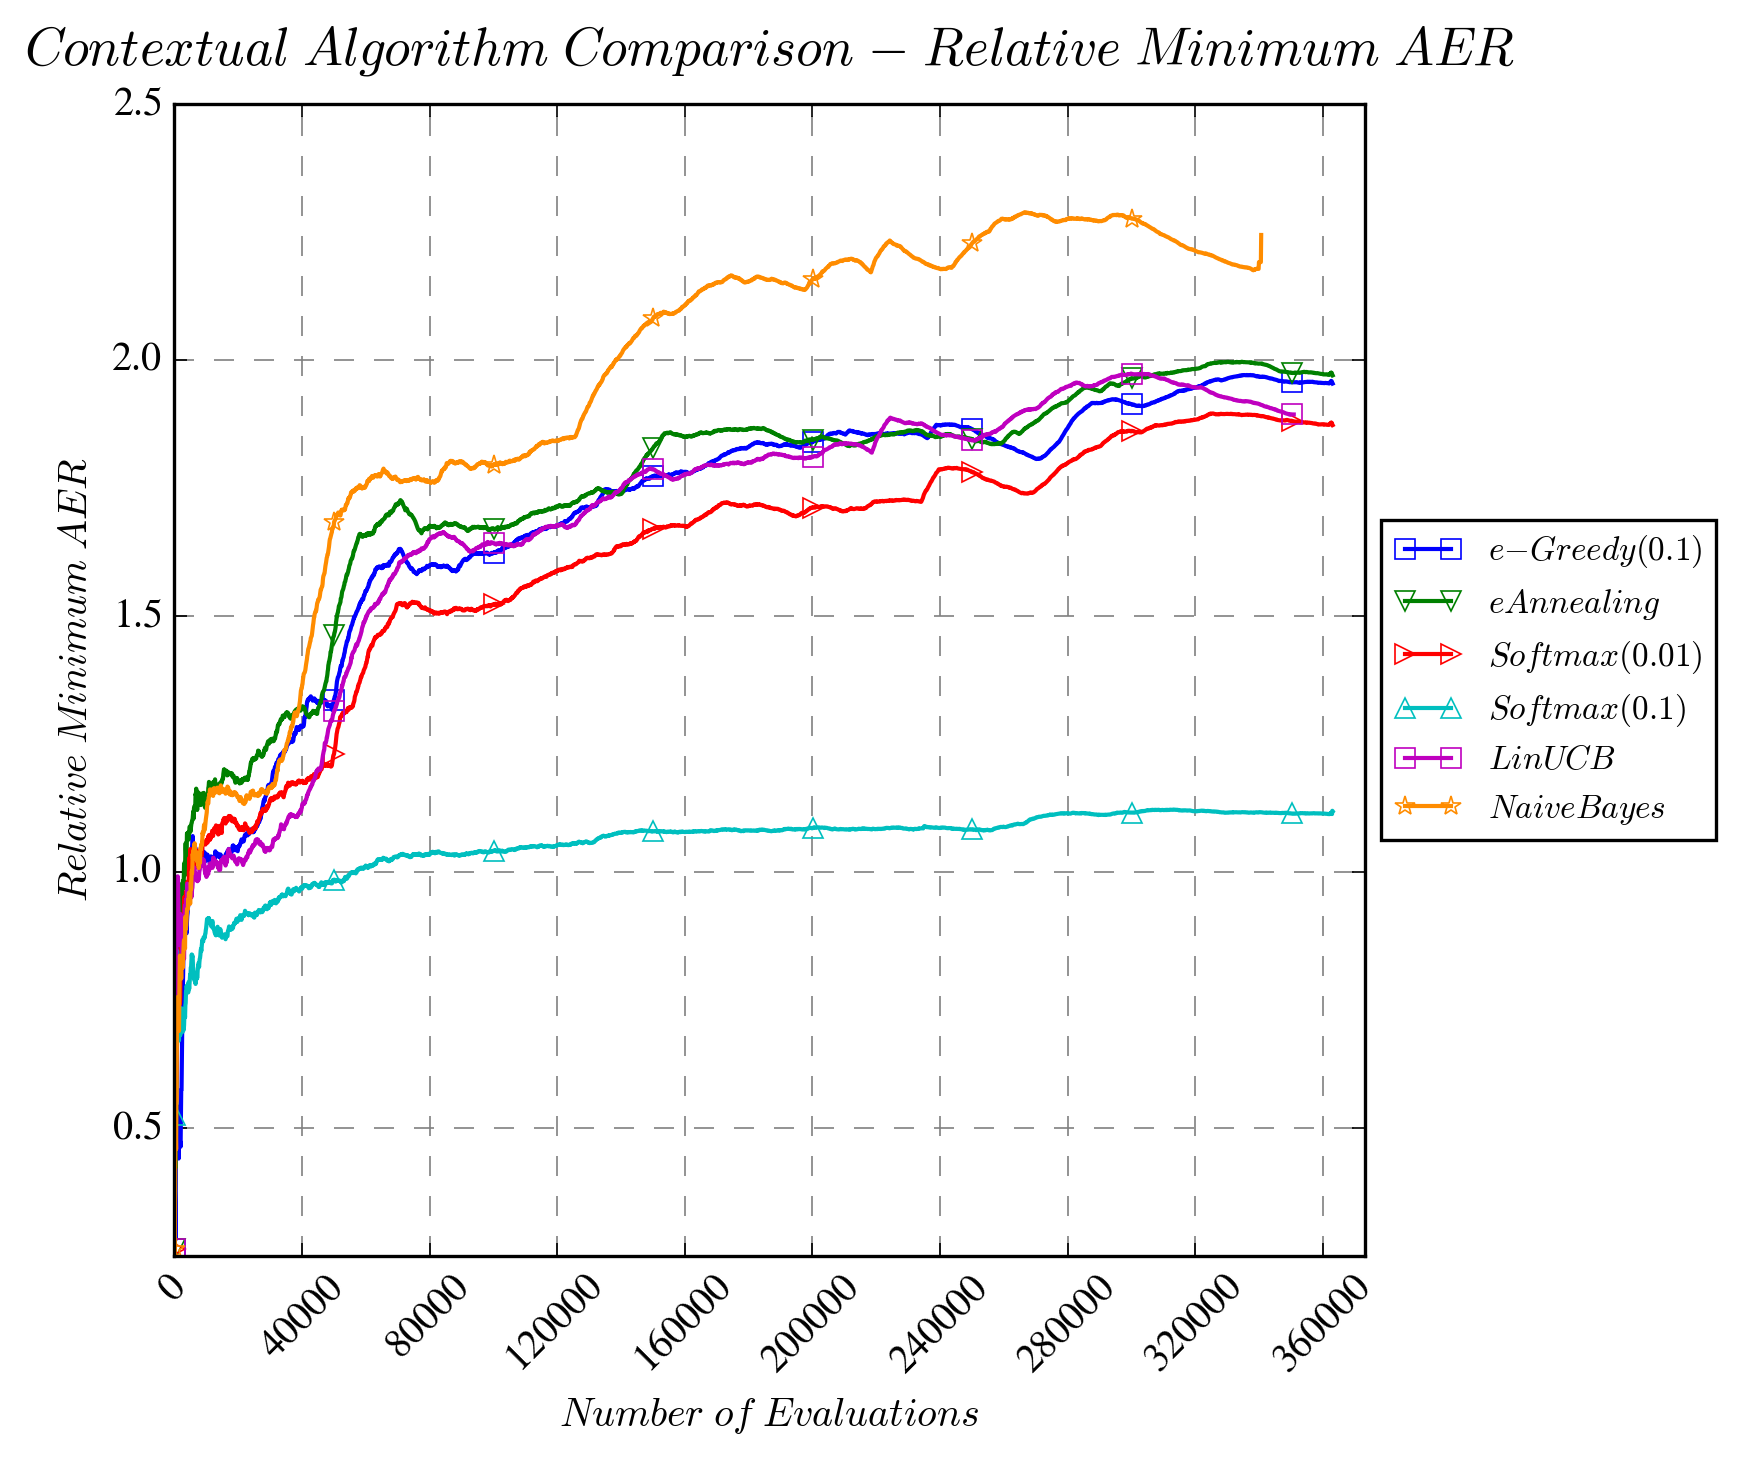
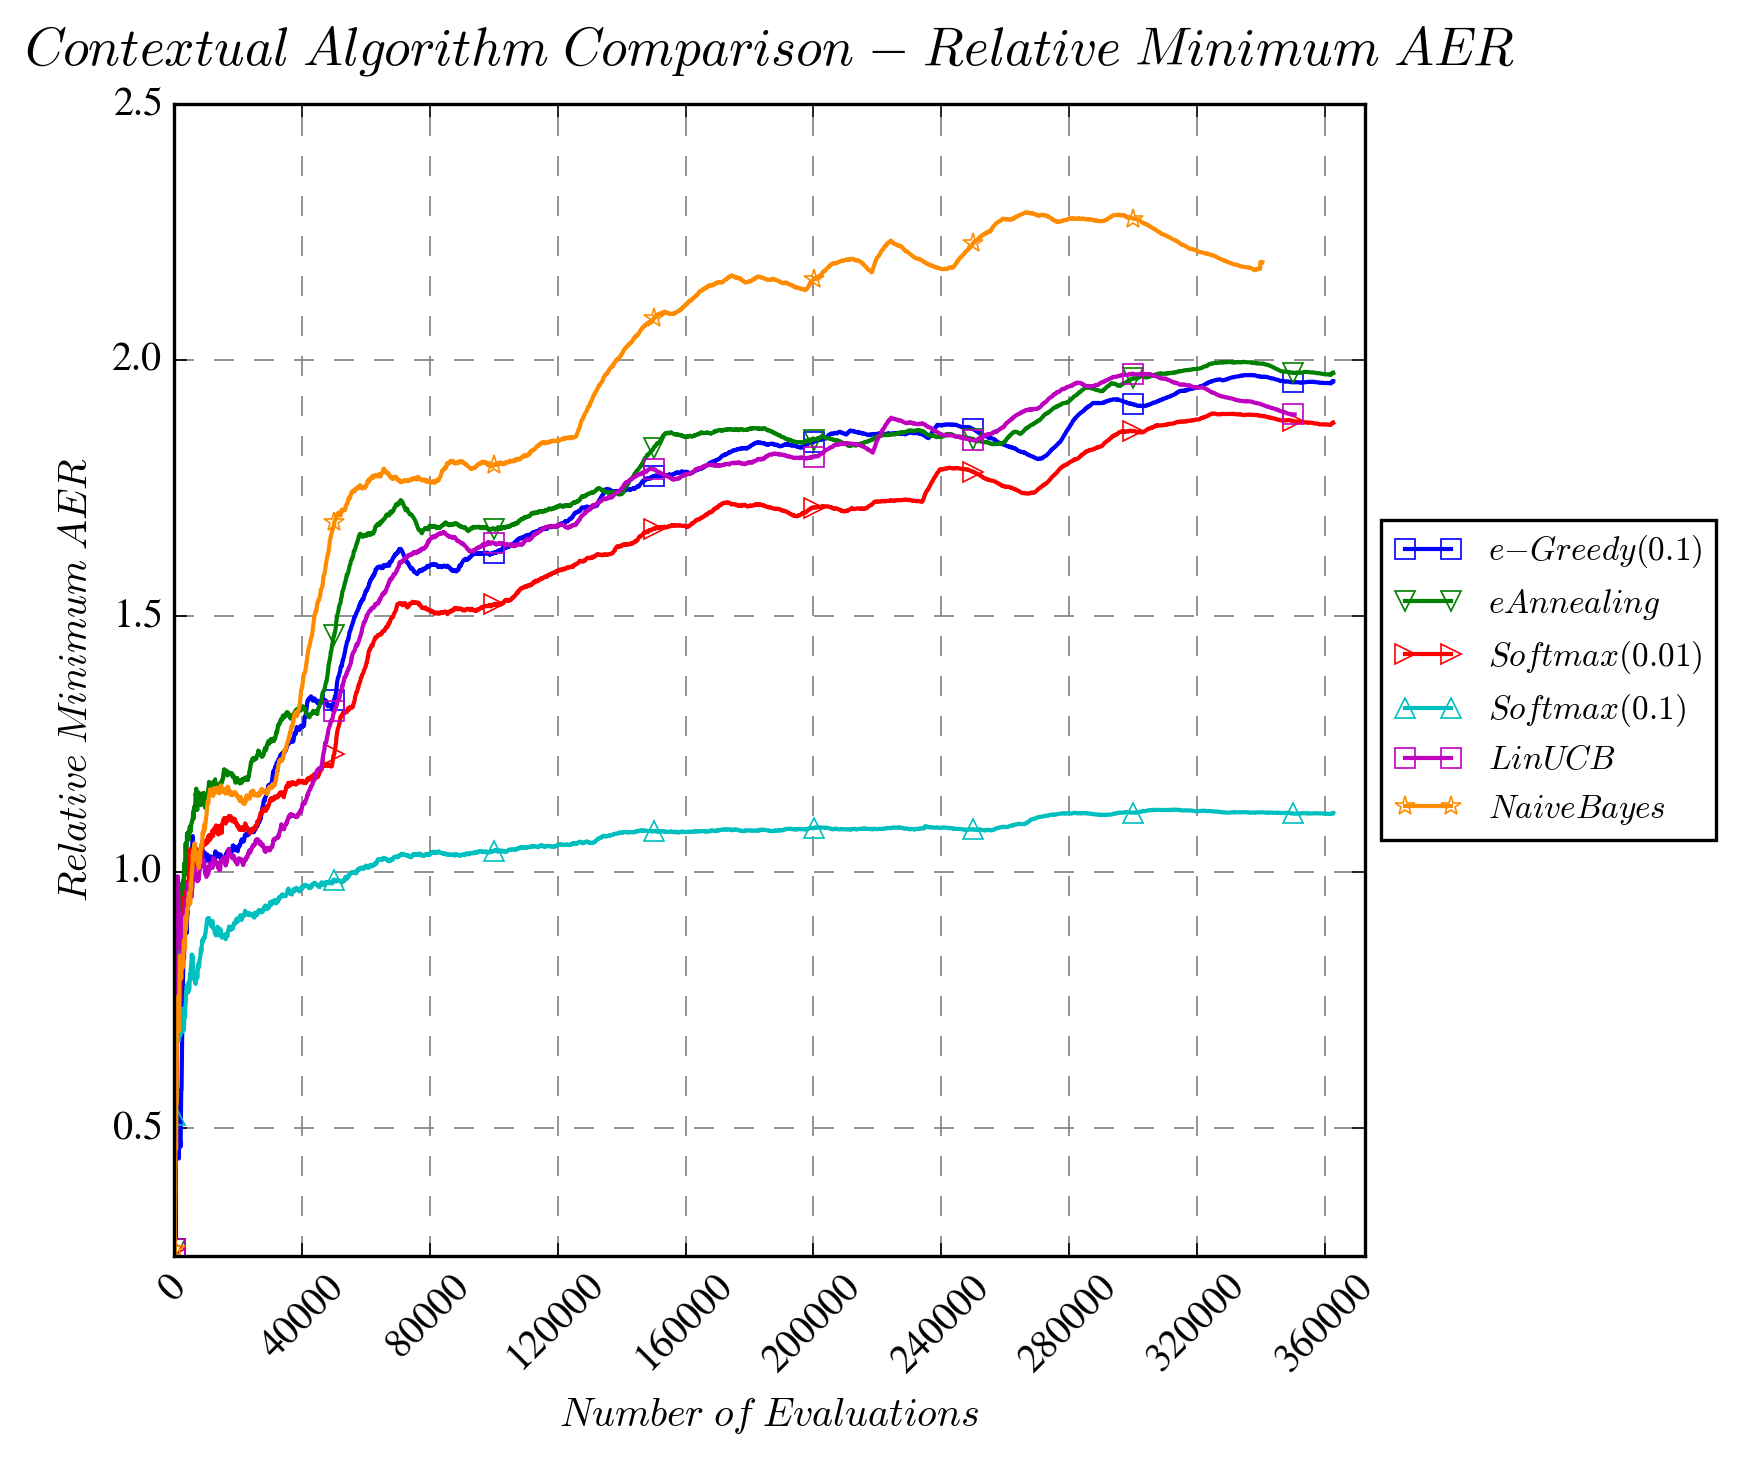
Last phase of ensemble name fixes

diff --git a/create_mean_aer_vs_time_plot_ensemble.py b/create_mean_aer_vs_time_plot_ensemble.py
@@ -22,14 +22,14 @@ ax.set_title(r"$Ensemble\ Algorithm\ Comparison\ -\ Relative\ Mean\ AER\ vs.\ Ti
 ax.set_xlabel(r"$Time\ (Seconds)$")
 ax.set_ylabel(r"$Relative\ Mean\ AER$")
 
-ax.plot(data['TimeBin'],data['EnsembleRandom']/data['Random'], lw='1.25', label=r'$EnsRandom$', marker='o', markevery=500, fillstyle='none')
-ax.plot(data['TimeBin'],data['EnsembleRandomUpdateAll']/data['Random'], lw='1.25', label=r'$EnsRandomUpdateAll$', marker='v', markevery=500, fillstyle='none')
-ax.plot(data['TimeBin'],data['EnsembleEAnnealing']/data['Random'], lw='1.25', label=r'$EnsEAnn$', marker='^', markevery=500, fillstyle='none')
-#ax.plot(data['TimeBin'],data['EnsembleBayesian']/data['Random'], lw='1.25', label=r'$EnsBayesian$', marker='s', markevery=500, fillstyle='none')
-ax.plot(data['TimeBin'],data['EnsembleBinomialUCI']/data['Random'], lw='1.25', label=r'$EnsBinomialUCI$', marker='*', markevery=500, fillstyle='none')
-ax.plot(data['TimeBin'],data['EnsembleSoftmax001']/data['Random'], lw='1.25', label=r'$EnsSoftmax0.01$', color='deepskyblue', marker='>', markevery=500, fillstyle='none')
-ax.plot(data['TimeBin'],data['EnsembleBinomialUCIMod1']/data['Random'], lw='1.25', label=r'$EnsBinomialUCIMod1$', marker='+', markevery=500, fillstyle='none')
-ax.plot(data['TimeBin'],data['EnsembleBinomialUCIMod2']/data['Random'], lw='1.25', label=r'$EnsBinomialUCIMod2$', color='fuchsia', marker='D', markevery=500, fillstyle='none')
+ax.plot(data['TimeBin'],data['EnsembleRandom']/data['Random'], lw='1.25', label=r'$EnsRandom$', marker='o', markevery=50, fillstyle='none')
+ax.plot(data['TimeBin'],data['EnsembleRandomUpdateAll']/data['Random'], lw='1.25', label=r'$EnsRandomUpdateAll$', marker='v', markevery=50, fillstyle='none')
+ax.plot(data['TimeBin'],data['EnsembleEAnnealing']/data['Random'], lw='1.25', label=r'$EnsEAnnealing$', marker='^', markevery=50, fillstyle='none')
+#ax.plot(data['TimeBin'],data['EnsembleBayesian']/data['Random'], lw='1.25', label=r'$EnsBayesian$', marker='s', markevery=50, fillstyle='none')
+ax.plot(data['TimeBin'],data['EnsembleBinomialUCI']/data['Random'], lw='1.25', label=r'$EnsBinomialUCI$', marker='*', markevery=50, fillstyle='none')
+ax.plot(data['TimeBin'],data['EnsembleSoftmax001']/data['Random'], lw='1.25', label=r'$EnsSoftmax0.01$', color='deepskyblue', marker='>', markevery=50, fillstyle='none')
+#ax.plot(data['TimeBin'],data['EnsembleBinomialUCIMod1']/data['Random'], lw='1.25', label=r'$EnsBinomialUCIMod1$', marker='+', markevery=50, fillstyle='none')
+#ax.plot(data['TimeBin'],data['EnsembleBinomialUCIMod2']/data['Random'], lw='1.25', label=r'$EnsBinomialUCIMod2$', color='fuchsia', marker='D', markevery=50, fillstyle='none')
 
 box = ax.get_position()
 ax.set_position([box.x0, box.y0, box.width * 0.8, box.height])
@@ -39,7 +39,8 @@ ax.legend(loc='center left', bbox_to_anchor=(1, 0.5), prop = fontP)
 ax.get_xaxis().set_major_locator(MaxNLocator(integer=True))
 ax.set_xticklabels(ax.xaxis.get_majorticklocs(), rotation=45)
 
-ax.set_xlim([0, max(data['TimeBin'])])
+ax.set_xlim([0, 11000])
+#ax.set_xlim([0, max(data['TimeBin'])])
 
 ax.set_axisbelow(True)
 ax.xaxis.grid(color='gray', linestyle='dashed')

diff --git a/create_aer_proportion_of_optimal_ensemble_plot.py b/create_aer_proportion_of_optimal_ensemble_plot.py
@@ -24,12 +24,12 @@ ax.set_ylabel(r"$AER\ Proportion\ of\ Optimal\ Policy$")
 
 ax.plot(data['t'],data['EnsembleRandom']/data['MaxInRow'], lw='1.25', label=r'$EnsRandom$', marker='o', markevery=500, fillstyle='none')
 ax.plot(data['t'],data['EnsembleRandomUpdateAll']/data['MaxInRow'], lw='1.25', label=r'$EnsRandomUpdateAll$', marker='v', markevery=500, fillstyle='none')
-ax.plot(data['t'],data['EnsembleEAnnealing']/data['MaxInRow'], lw='1.25', label=r'$EnsEAnn$', marker='^', markevery=500, fillstyle='none')
+ax.plot(data['t'],data['EnsembleEAnnealing']/data['MaxInRow'], lw='1.25', label=r'$EnsEAnnealing$', marker='^', markevery=500, fillstyle='none')
 #ax.plot(data['t'],data['EnsembleBayesian']/data['MaxInRow'], lw='1.25', label=r'$EnsBayesian$', marker='s', markevery=500, fillstyle='none')
 ax.plot(data['t'],data['EnsembleBinomialUCI']/data['MaxInRow'], lw='1.25', label=r'$EnsBinomialUCI$', marker='*', markevery=500, fillstyle='none')
 ax.plot(data['t'],data['EnsembleSoftmax001']/data['MaxInRow'], lw='1.25', label=r'$EnsSoftmax0.01$', color='deepskyblue', marker='>', markevery=500, fillstyle='none')
-ax.plot(data['t'],data['EnsembleBinomialUCIMod1']/data['MaxInRow'], lw='1.25', label=r'$EnsBinomialUCIMod1$', marker='+', markevery=500, fillstyle='none')
-ax.plot(data['t'],data['EnsembleBinomialUCIMod2']/data['MaxInRow'], lw='1.25', label=r'$EnsBinomialUCIMod2$', color='fuchsia', marker='D', markevery=500, fillstyle='none')
+#ax.plot(data['t'],data['EnsembleBinomialUCIMod1']/data['MaxInRow'], lw='1.25', label=r'$EnsBinomialUCIMod1$', marker='+', markevery=500, fillstyle='none')
+#ax.plot(data['t'],data['EnsembleBinomialUCIMod2']/data['MaxInRow'], lw='1.25', label=r'$EnsBinomialUCIMod2$', color='fuchsia', marker='D', markevery=500, fillstyle='none')
 
 box = ax.get_position()
 ax.set_position([box.x0, box.y0, box.width * 0.8, box.height])

diff --git a/create_max_aer_plot_ensemble.py b/create_max_aer_plot_ensemble.py
@@ -25,7 +25,8 @@ ax.set_ylabel(r"$Relative\ Maximum\ AER$")
 
 ax.plot(data['t'],data['EnsembleRandom']/data2['Random'], lw='1.25', label=r'$EnsRandom$', marker='s', markevery=500, fillstyle='none')
 ax.plot(data['t'],data['EnsembleRandomUpdateAll']/data2['Random'], lw='1.25', label=r'$EnsRandomUpdateAll$', marker='v', markevery=500, fillstyle='none')
-ax.plot(data['t'],data['EnsembleEAnnealing']/data2['Random'], lw='1.25', label=r'$EnsEAnn$', marker='^', markevery=500, fillstyle='none')
+ax.plot(data['t'],data['EnsembleRandomUpdateAll']/data2['Random'], lw='1.25', label=r'$EnsRandomUpdateAll$', marker='v', markevery=500, fillstyle='none')
+ax.plot(data['t'],data['EnsembleEAnnealing']/data2['Random'], lw='1.25', label=r'$EnsEAnnealing$', marker='^', markevery=500, fillstyle='none')
 #ax.plot(data['t'],data['EnsembleBayesian']/data2['Random'], lw='1.25', label=r'$EnsBayesian$', marker='s', markevery=500, fillstyle='none')
 ax.plot(data['t'],data['EnsembleBinomialUCI']/data2['Random'], lw='1.25', label=r'$EnsBinomialUCI$', marker='*', markevery=500, fillstyle='none')
 ax.plot(data['t'],data['EnsembleSoftmax001']/data2['Random'], lw='1.25', label=r'$EnsSoftmax0.01$', color='deepskyblue', marker='>', markevery=500, fillstyle='none')

diff --git a/create_aer_proportion_of_optimal_vs_time_ensemble_plot.py b/create_aer_proportion_of_optimal_vs_time_ensemble_plot.py
@@ -24,7 +24,7 @@ ax.set_ylabel(r"$AER\ Proportion\ of\ Optimal\ Policy$")
 
 ax.plot(data['TimeBin'],data['EnsembleRandom']/data['MaxInRow'], lw='1.25', label=r'$EnsRandom$', marker='o', markevery=20, fillstyle='none')
 ax.plot(data['TimeBin'],data['EnsembleRandomUpdateAll']/data['MaxInRow'], lw='1.25', label=r'$EnsRandomUpdateAll$', marker='v', markevery=20, fillstyle='none')
-ax.plot(data['TimeBin'],data['EnsembleEAnnealing']/data['MaxInRow'], lw='1.25', label=r'$EnsEAnn$', marker='^', markevery=20, fillstyle='none')
+ax.plot(data['TimeBin'],data['EnsembleEAnnealing']/data['MaxInRow'], lw='1.25', label=r'$EnsEAnnealing$', marker='^', markevery=20, fillstyle='none')
 #ax.plot(data['TimeBin'],data['EnsembleBayesian']/data['MaxInRow'], lw='1.25', label=r'$EnsBayesian$', marker='s', markevery=20, fillstyle='none')
 ax.plot(data['TimeBin'],data['EnsembleBinomialUCI']/data['MaxInRow'], lw='1.25', label=r'$EnsBinomialUCI$', marker='*', markevery=20, fillstyle='none')
 ax.plot(data['TimeBin'],data['EnsembleSoftmax001']/data['MaxInRow'], lw='1.25', label=r'$EnsSoftmax0.01$', color='deepskyblue', marker='>', markevery=20, fillstyle='none')

diff --git a/create_min_aer_plot_ensemble.py b/create_min_aer_plot_ensemble.py
@@ -25,7 +25,7 @@ ax.set_ylabel(r"$Relative\ Minimum\ AER$")
 
 ax.plot(data['t'],data['EnsembleRandom']/data2['Random'], lw='1.25', label=r'$EnsRandom$', marker='s', markevery=500, fillstyle='none')
 ax.plot(data['t'],data['EnsembleRandomUpdateAll']/data2['Random'], lw='1.25', label=r'$EnsRandomUpdateAll$', marker='v', markevery=500, fillstyle='none')
-ax.plot(data['t'],data['EnsembleEAnnealing']/data2['Random'], lw='1.25', label=r'$EnsEAnn$', marker='^', markevery=500, fillstyle='none')
+ax.plot(data['t'],data['EnsembleEAnnealing']/data2['Random'], lw='1.25', label=r'$EnsEAnnealing$', marker='^', markevery=500, fillstyle='none')
 #ax.plot(data['t'],data['EnsembleBayesian']/data2['Random'], lw='1.25', label=r'$EnsBayesian$', marker='s', markevery=500, fillstyle='none')
 ax.plot(data['t'],data['EnsembleBinomialUCI']/data2['Random'], lw='1.25', label=r'$EnsBinomialUCI$', marker='*', markevery=500, fillstyle='none')
 ax.plot(data['t'],data['EnsembleSoftmax001']/data2['Random'], lw='1.25', label=r'$EnsSoftmax0.01$', color='deepskyblue', marker='>', markevery=500, fillstyle='none')

diff --git a/create_mean_aer_plot_ensemble.py b/create_mean_aer_plot_ensemble.py
@@ -23,7 +23,7 @@ ax.set_ylabel(r"$Relative\ Mean\ AER$")
 
 ax.plot(data['t'],data['EnsembleRandom']/data['Random'], lw='1.25', label=r'$EnsRandom$', marker='o', markevery=500, fillstyle='none')
 ax.plot(data['t'],data['EnsembleRandomUpdateAll']/data['Random'], lw='1.25', label=r'$EnsRandomUpdateAll$', marker='v', markevery=500, fillstyle='none')
-ax.plot(data['t'],data['EnsembleEAnnealing']/data['Random'], lw='1.25', label=r'$EnsEAnn$', marker='^', markevery=500, fillstyle='none')
+ax.plot(data['t'],data['EnsembleEAnnealing']/data['Random'], lw='1.25', label=r'$EnsEAnnealing$', marker='^', markevery=500, fillstyle='none')
 #ax.plot(data['t'],data['EnsembleBayesian']/data['Random'], lw='1.25', label=r'$EnsBayesian$', marker='s', markevery=500, fillstyle='none')
 ax.plot(data['t'],data['EnsembleBinomialUCI']/data['Random'], lw='1.25', label=r'$EnsBinomialUCI$', marker='*', markevery=500, fillstyle='none')
 ax.plot(data['t'],data['EnsembleSoftmax001']/data['Random'], lw='1.25', label=r'$EnsSoftmax0.01$', color='deepskyblue', marker='>', markevery=500, fillstyle='none')

diff --git a/create_stdev_aer_plot_ensemble.py b/create_stdev_aer_plot_ensemble.py
@@ -23,7 +23,7 @@ ax.set_ylabel(r"$Standard\ Deviation$")
 
 ax.plot(data['t'],data['EnsembleRandom'], lw='1.25', label=r'$EnsRandom$', marker='o', markevery=500, fillstyle='none')
 ax.plot(data['t'],data['EnsembleRandomUpdateAll'], lw='1.25', label=r'$EnsRandomUpdateAll$', marker='v', markevery=500, fillstyle='none')
-ax.plot(data['t'],data['EnsembleEAnnealing'], lw='1.25', label=r'$EnsEAnn$', marker='^', markevery=500, fillstyle='none')
+ax.plot(data['t'],data['EnsembleEAnnealing'], lw='1.25', label=r'$EnsEAnnealing$', marker='^', markevery=500, fillstyle='none')
 #ax.plot(data['t'],data['EnsembleBayesian'], lw='1.25', label=r'$EnsBayesian$', marker='s', markevery=500, fillstyle='none')
 ax.plot(data['t'],data['EnsembleBinomialUCI'], lw='1.25', label=r'$EnsBinomialUCI$', marker='*', markevery=500, fillstyle='none')
 ax.plot(data['t'],data['EnsembleSoftmax001'], lw='1.25', label=r'$EnsSoftmax0.01$', color='deepskyblue', marker='>', markevery=500, fillstyle='none')
